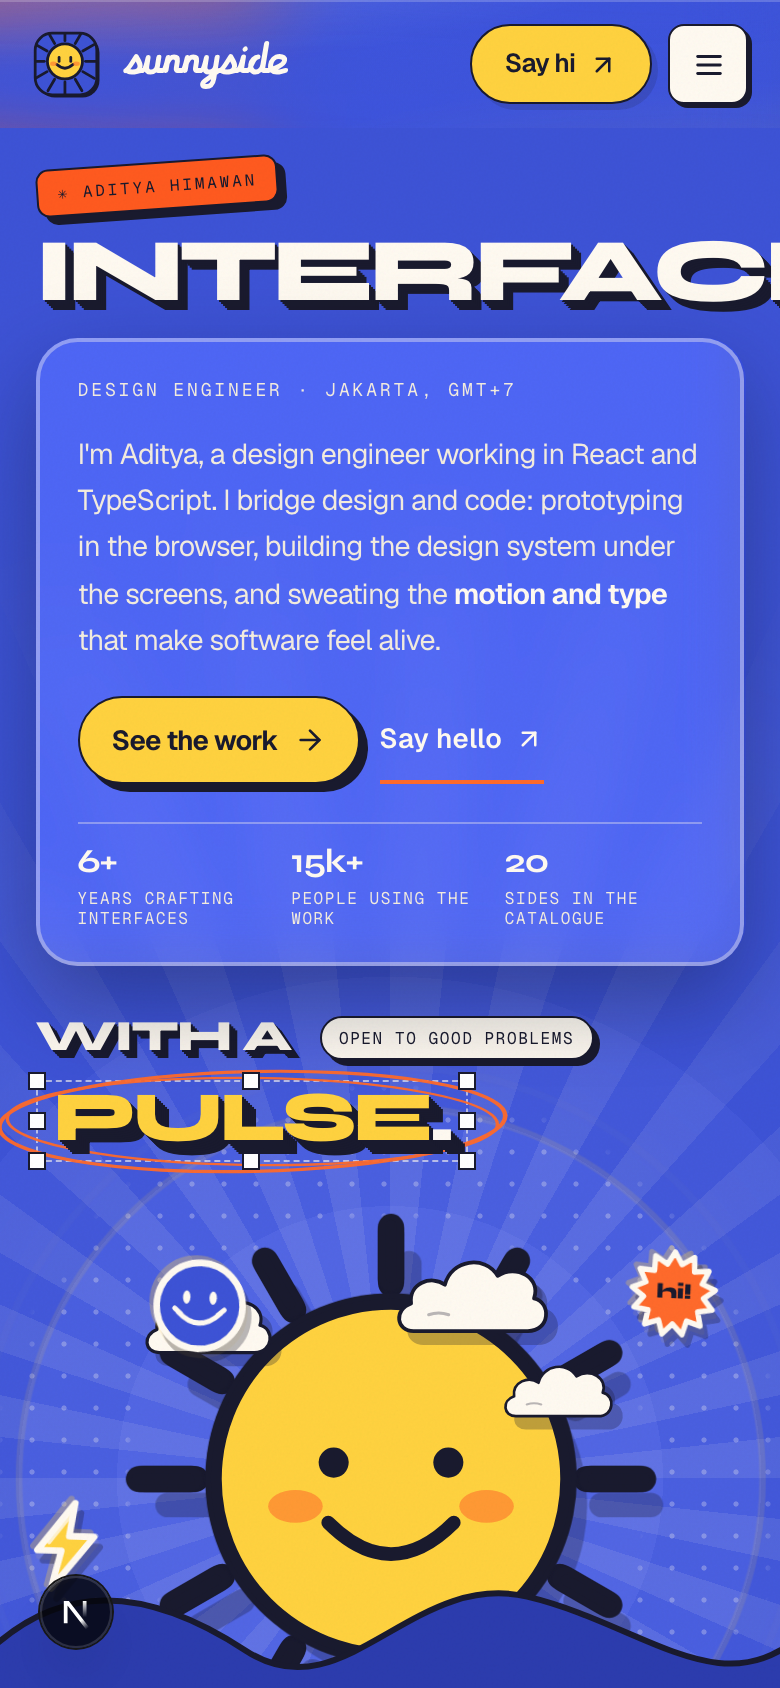
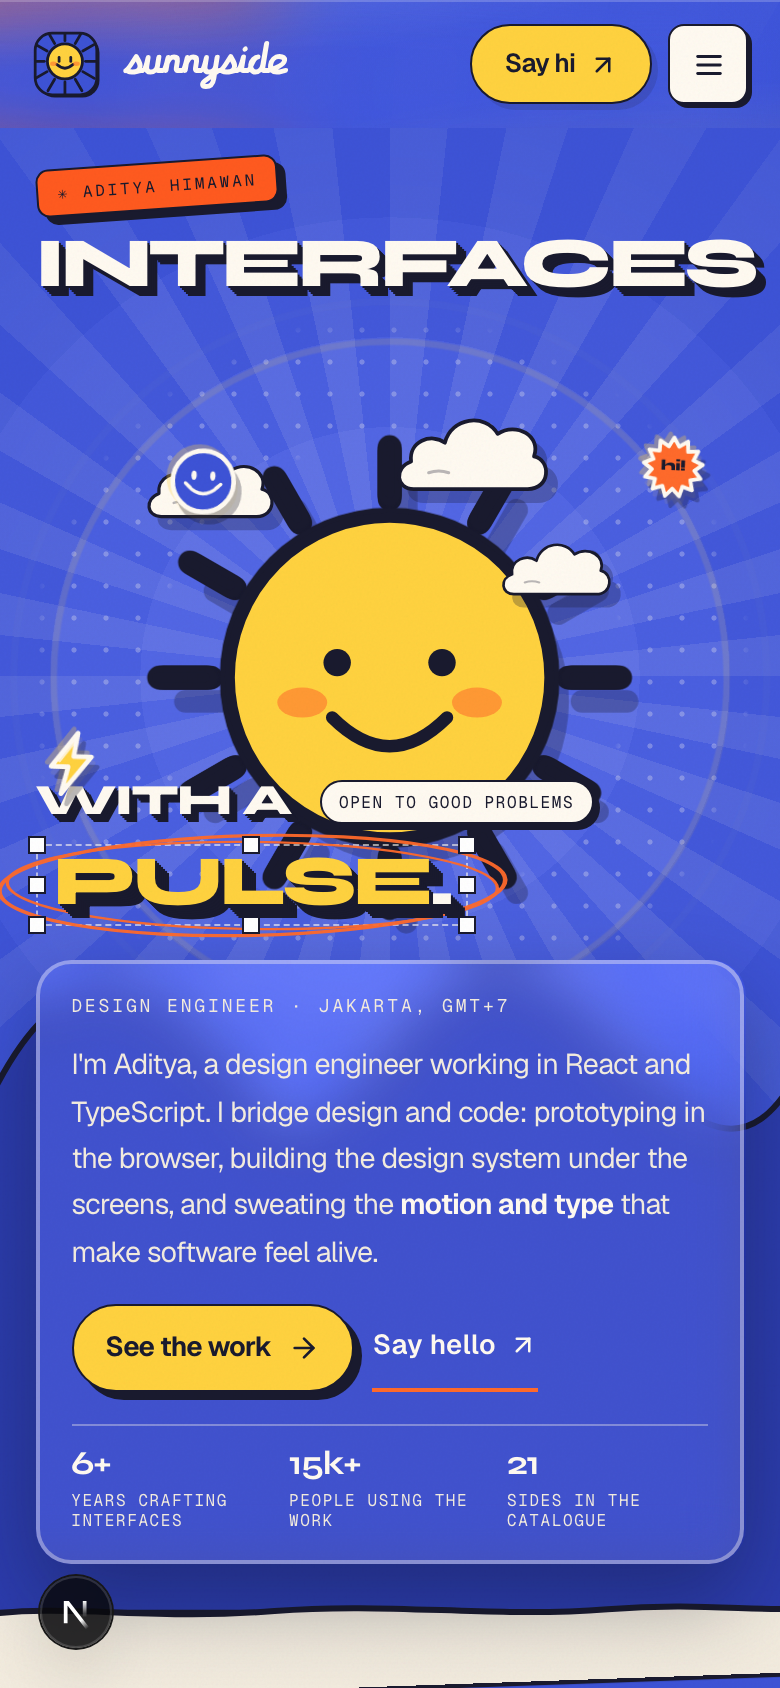
fix(hero): dock the phone card under the sun in flow, shrink and spread the stickers

diff --git a/features/landing-page/studio/studio.module.css b/features/landing-page/studio/studio.module.css
@@ -568,9 +568,6 @@
 }
 
 .heroDock {
-  display: flex;
-  flex-direction: column;
-  gap: 0.85rem;
   padding: 1.1rem 1.2rem 1rem;
   border: 2px solid rgb(255 250 241 / 0.38);
   border-radius: 1.3rem;
@@ -578,6 +575,12 @@
   -webkit-backdrop-filter: blur(14px) saturate(1.25);
   backdrop-filter: blur(14px) saturate(1.25);
   box-shadow: 0 18px 44px rgb(9 14 32 / 0.34);
+}
+
+.heroDockInner {
+  display: flex;
+  flex-direction: column;
+  gap: 0.85rem;
 }
 
 .heroDockHead {
@@ -888,8 +891,8 @@
        it, and the hill behind the card is stretched to wrap it. */
     --sun-lift: 1.85;
     --items-lift: var(--sun-lift);
-    --dock-space: 24rem;
-    padding-bottom: calc(var(--ground) + var(--dock-space));
+    --dock-space: 0rem;
+    padding-bottom: calc(var(--ground) + var(--dock-space) + 0.75rem);
   }
 
   /* The stage drops its own positioning so the card can anchor to the hero and
@@ -899,22 +902,26 @@
     position: static;
   }
 
-  /* Out of the stack and onto the hill: the card reads as sitting below the
-     sun, with the stretched hill behind it. */
+  /* The card stays in flow and is ordered after the worked word: absolutely
+     positioning it here anchored it to the parallax copy block, whose transform
+     made it the containing block, so the card floated up into the sun. */
   .heroDock {
-    position: absolute;
-    right: 1.125rem;
-    bottom: calc(var(--ground) + 0.75rem);
-    left: 1.125rem;
+    order: 2;
+    padding: 0.95rem 1rem 0.9rem;
+    border-radius: 1.1rem;
+  }
+
+  .heroDockInner {
+    gap: 0.7rem;
   }
 
   .heroLower {
-    position: static;
     grid-template-columns: minmax(0, 1fr);
-    gap: 1.6rem;
+    gap: 1.05rem;
   }
 
   .heroPulseBlock {
+    order: 1;
     align-items: flex-start;
     justify-self: stretch;
   }

diff --git a/features/landing-page/studio/hero/hero.tsx b/features/landing-page/studio/hero/hero.tsx
@@ -67,8 +67,11 @@ export function Hero() {
 
           {/* 2 · Lower band: the dock on the left, the worked word on the right. */}
           <div className={styles.heroLower} data-hero-copy>
-            <Reveal delay={0.12}>
-              <div className={styles.heroDock}>
+            {/* The reveal lives inside the card: a transform on an ancestor
+                would make it the containing block, and the card would drop out
+                of the hero's bottom edge on every breakpoint. */}
+            <div className={styles.heroDock}>
+              <Reveal delay={0.12} className={styles.heroDockInner}>
                 <div className={styles.heroDockHead}>
                   <span>Design engineer</span>
                   <span aria-hidden>·</span>
@@ -113,8 +116,8 @@ export function Hero() {
                     </div>
                   ))}
                 </dl>
-              </div>
-            </Reveal>
+              </Reveal>
+            </div>
 
             <Reveal delay={0.2}>
               <div className={styles.heroPulseBlock}>

diff --git a/features/landing-page/studio/hero/hero-scene.module.css b/features/landing-page/studio/hero/hero-scene.module.css
@@ -384,9 +384,12 @@
 }
 
 @media (max-width: 1023px) {
+  /* The cluster opens out instead of bunching on the disc: each mark keeps a
+     clear channel, and the marks themselves shrink so they read as set dressing
+     rather than props competing with the word. */
   .scene {
-    --ky: 0.42;
-    --kx: 0.5;
+    --ky: 0.54;
+    --kx: 0.54;
   }
 
   /* The bio card sits on the hill down here, so the hill is stretched to wrap
@@ -403,6 +406,13 @@
   .sparkPaper,
   .sticker[data-slot='daisy'] {
     display: none;
+  }
+
+  /* Same die-cut language, a third smaller: at phone width the marks were the
+     loudest thing on the screen and clipped each other at the disc's edge. */
+  .sticker {
+    width: clamp(2.2rem, 9vw, 3.2rem);
+    margin: -1.35rem 0 0 -1.35rem;
   }
 }
 

diff --git a/features/landing-page/studio/gravity/pit-runtime.ts b/features/landing-page/studio/gravity/pit-runtime.ts
@@ -64,7 +64,10 @@ export function runPit(pit: HTMLElement): PitRuntime {
   const fit = () => {
     world.width = pit.clientWidth
     world.height = pit.clientHeight
-    const scale = Math.min(1, Math.max(0.58, world.width / 880))
+    /* On a phone the tray is a third of the reference width. The floor used to
+       hold the marks near full size, so they crowded each other and out-shouted
+       the copy; it now tracks the hero's die-cuts, which shrink the same way. */
+    const scale = Math.min(1, Math.max(0.44, world.width / 980))
     for (const item of items) {
       item.size = item.spec.size * scale
       item.body.r = item.size * HIT
